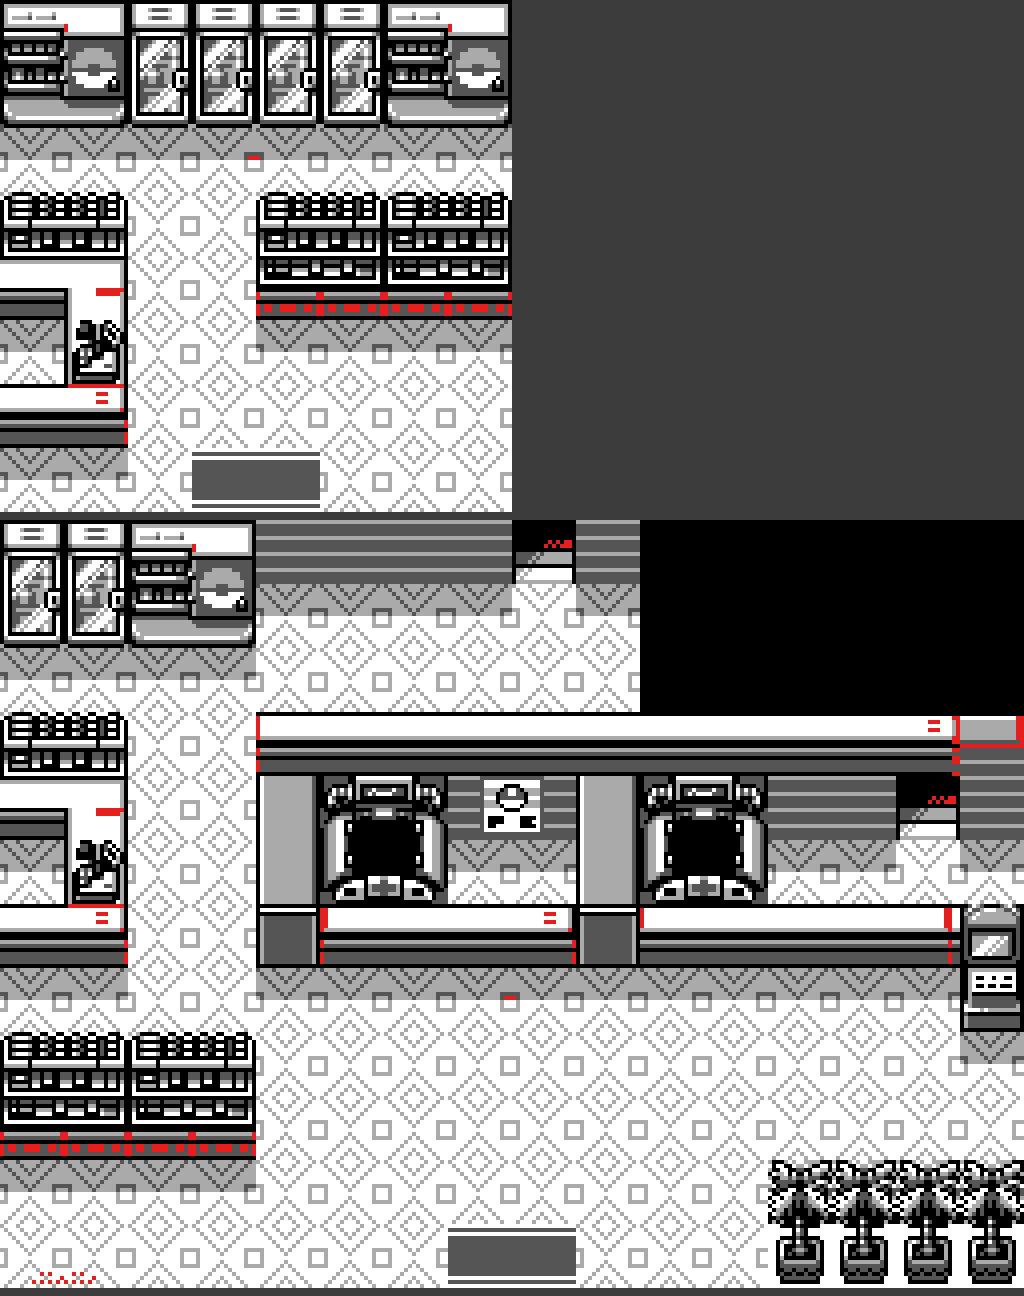
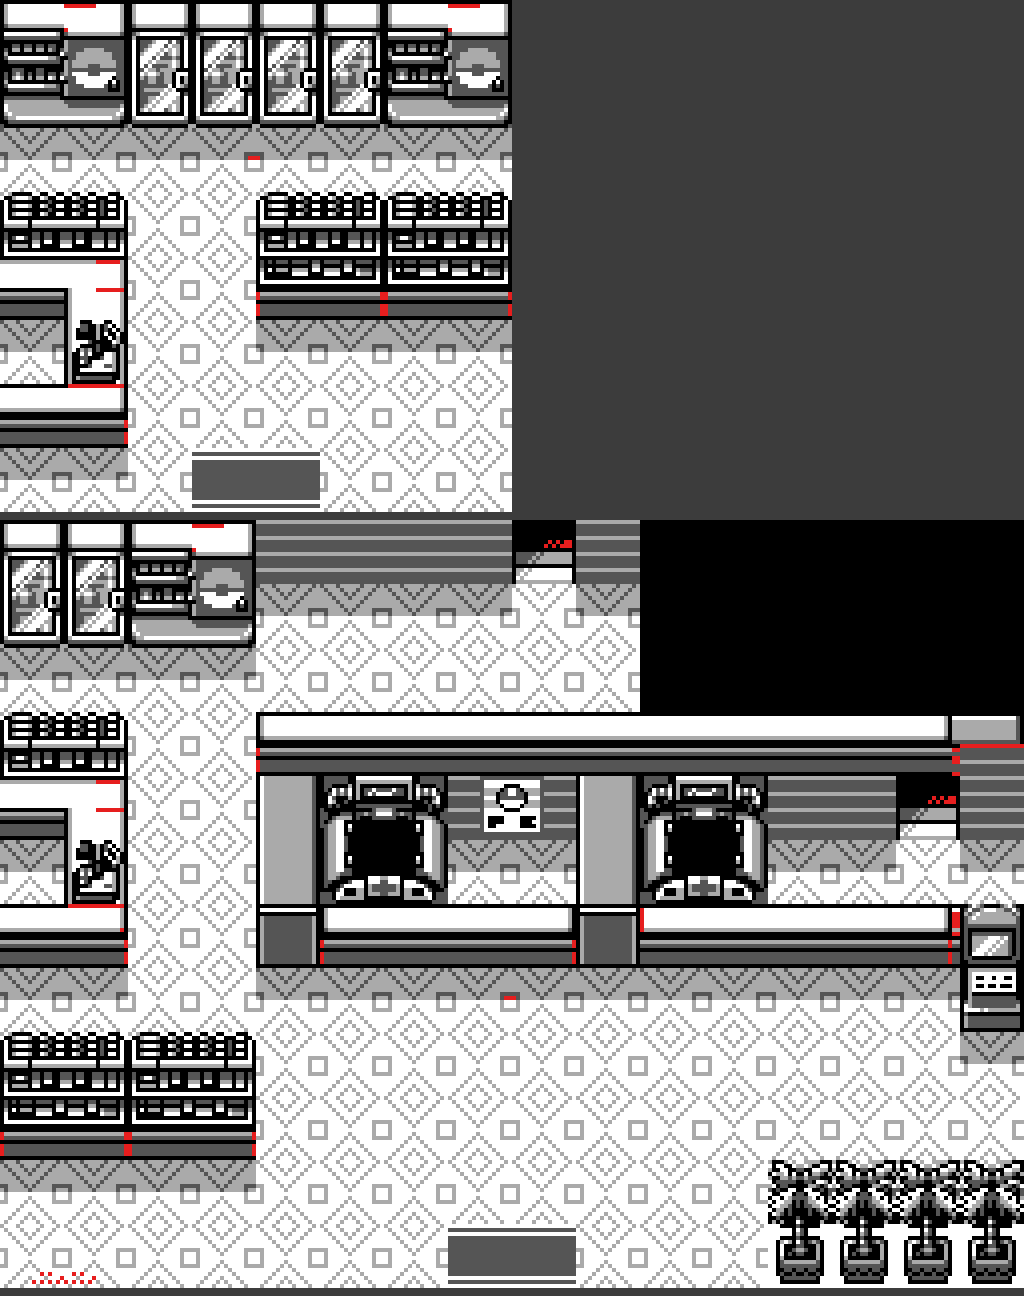
Rooms: the painter's new tiles
Pokemon Centers and hotel: 64 tiles. Marts and Indigo lobby: 18 merges
(at most 10 pixels apart) to 96 tiles.

Claude-Session: https://claude.ai/code/session_013LfQ5QibCznGgf4ezQffZU

diff --git a/docs/design_brief.md b/docs/design_brief.md
@@ -2451,9 +2451,9 @@ it.
   `art/rooms/<tileset>/painted/`; `changes.png` marks every pixel changed.
 - **Status.** Both are the painting, checked pixel for pixel against it and
   in the emulator (color and DMG; clerks talked to over their counters):
-  the Pokémon Centers and the hotel, 39 blocks (2 new), 66 tiles, 2 counter
+  the Pokémon Centers and the hotel, 40 blocks (3 new), 64 tiles, 2 counter
   tiles; the marts and the Indigo Plateau lobby, 41 blocks (4 new), 96
-  tiles, 2 counter tiles, after merging 23 near-identical tiles (at most 13
+  tiles, 2 counter tiles, after merging 18 near-identical tiles (at most 10
   pixels apart: highlight lines on counters and shelves, the doorway's
   shading). The lobby stays with the marts: its shop corner shares their
   tiles, and its Pokémon Center half needed the smallest merges.
